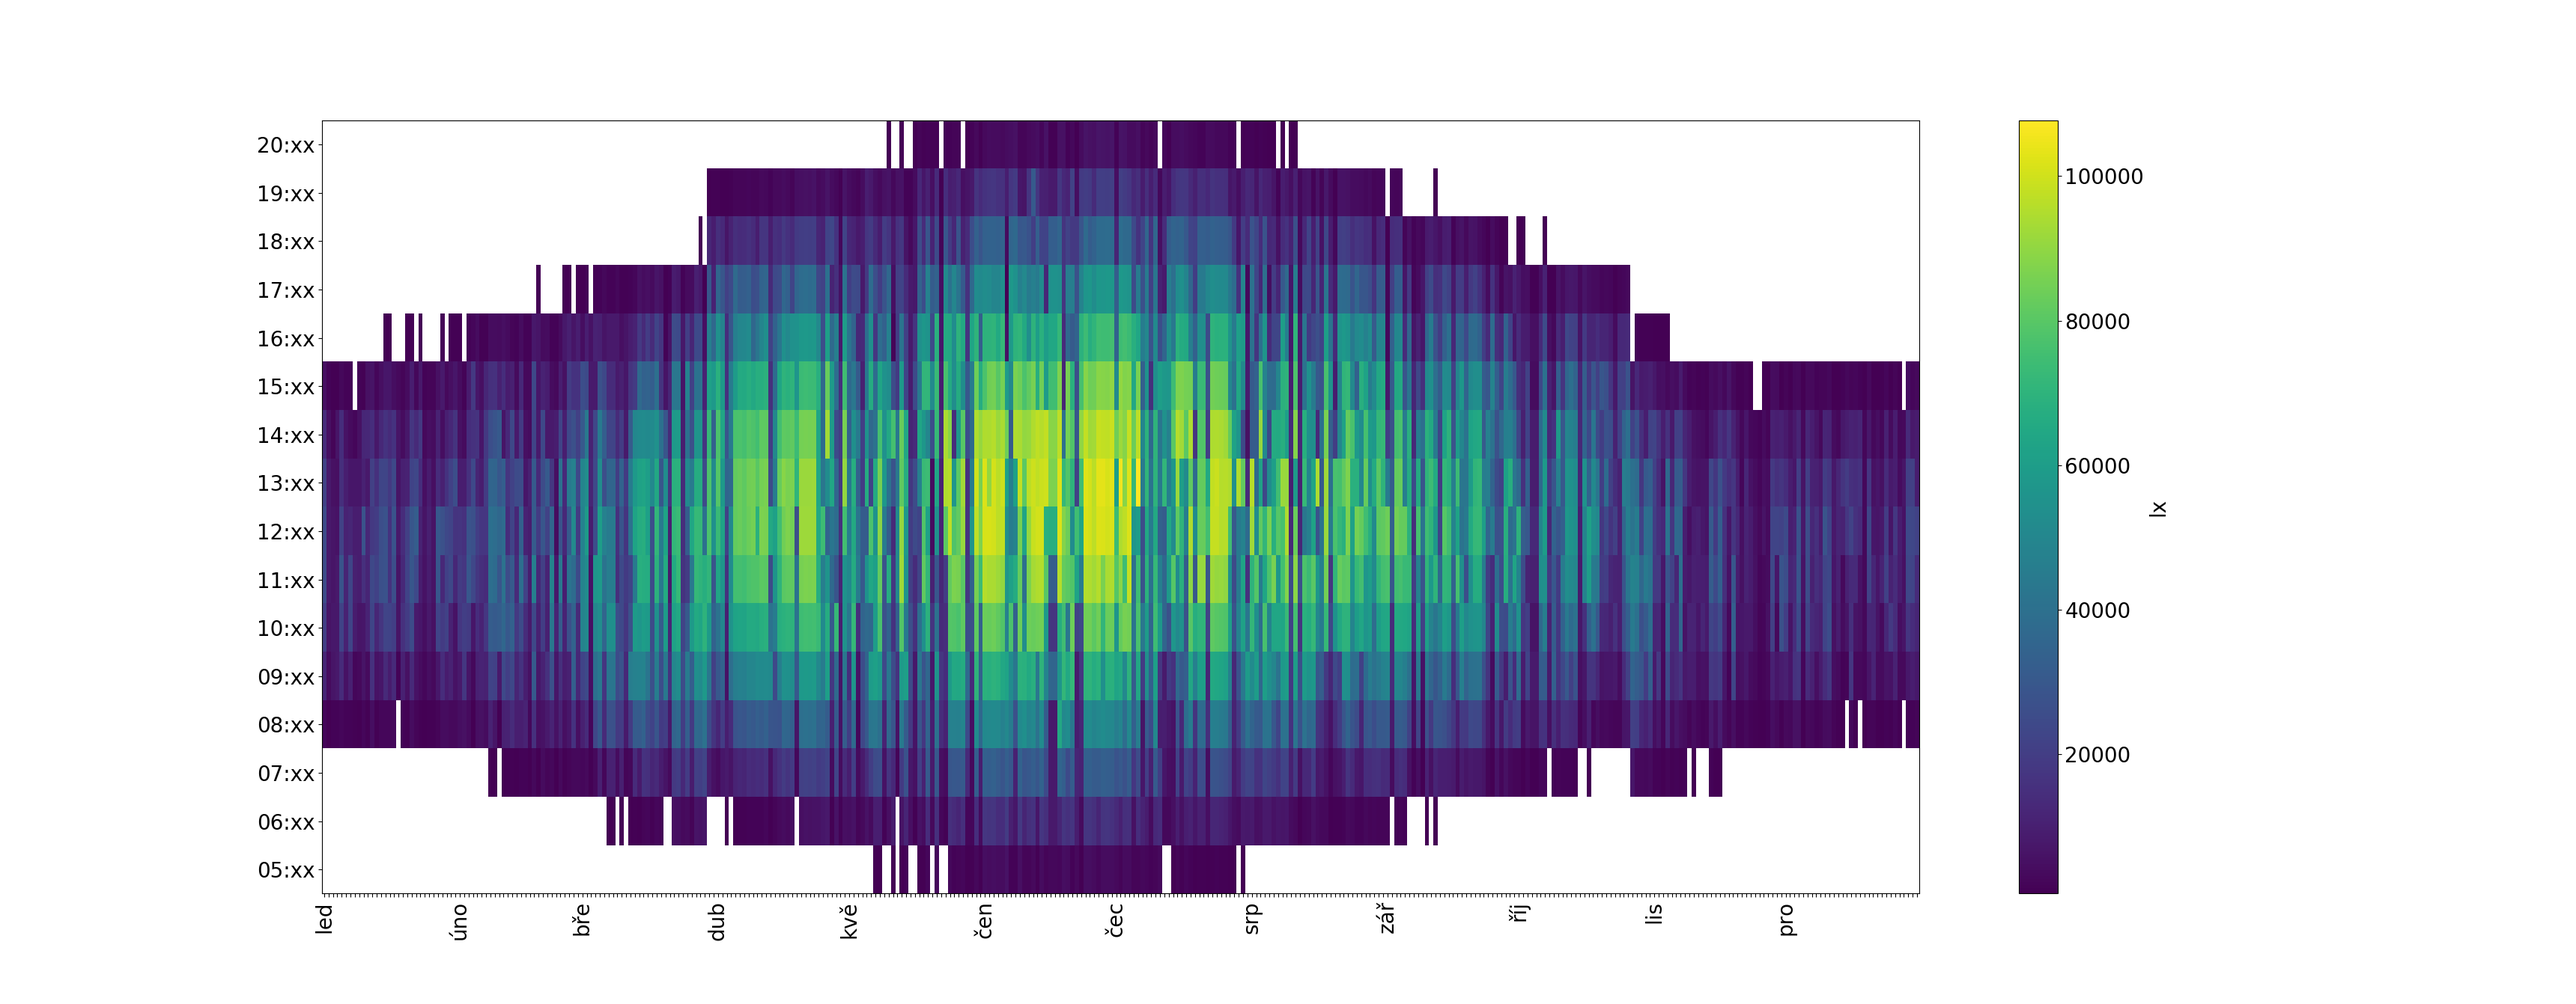
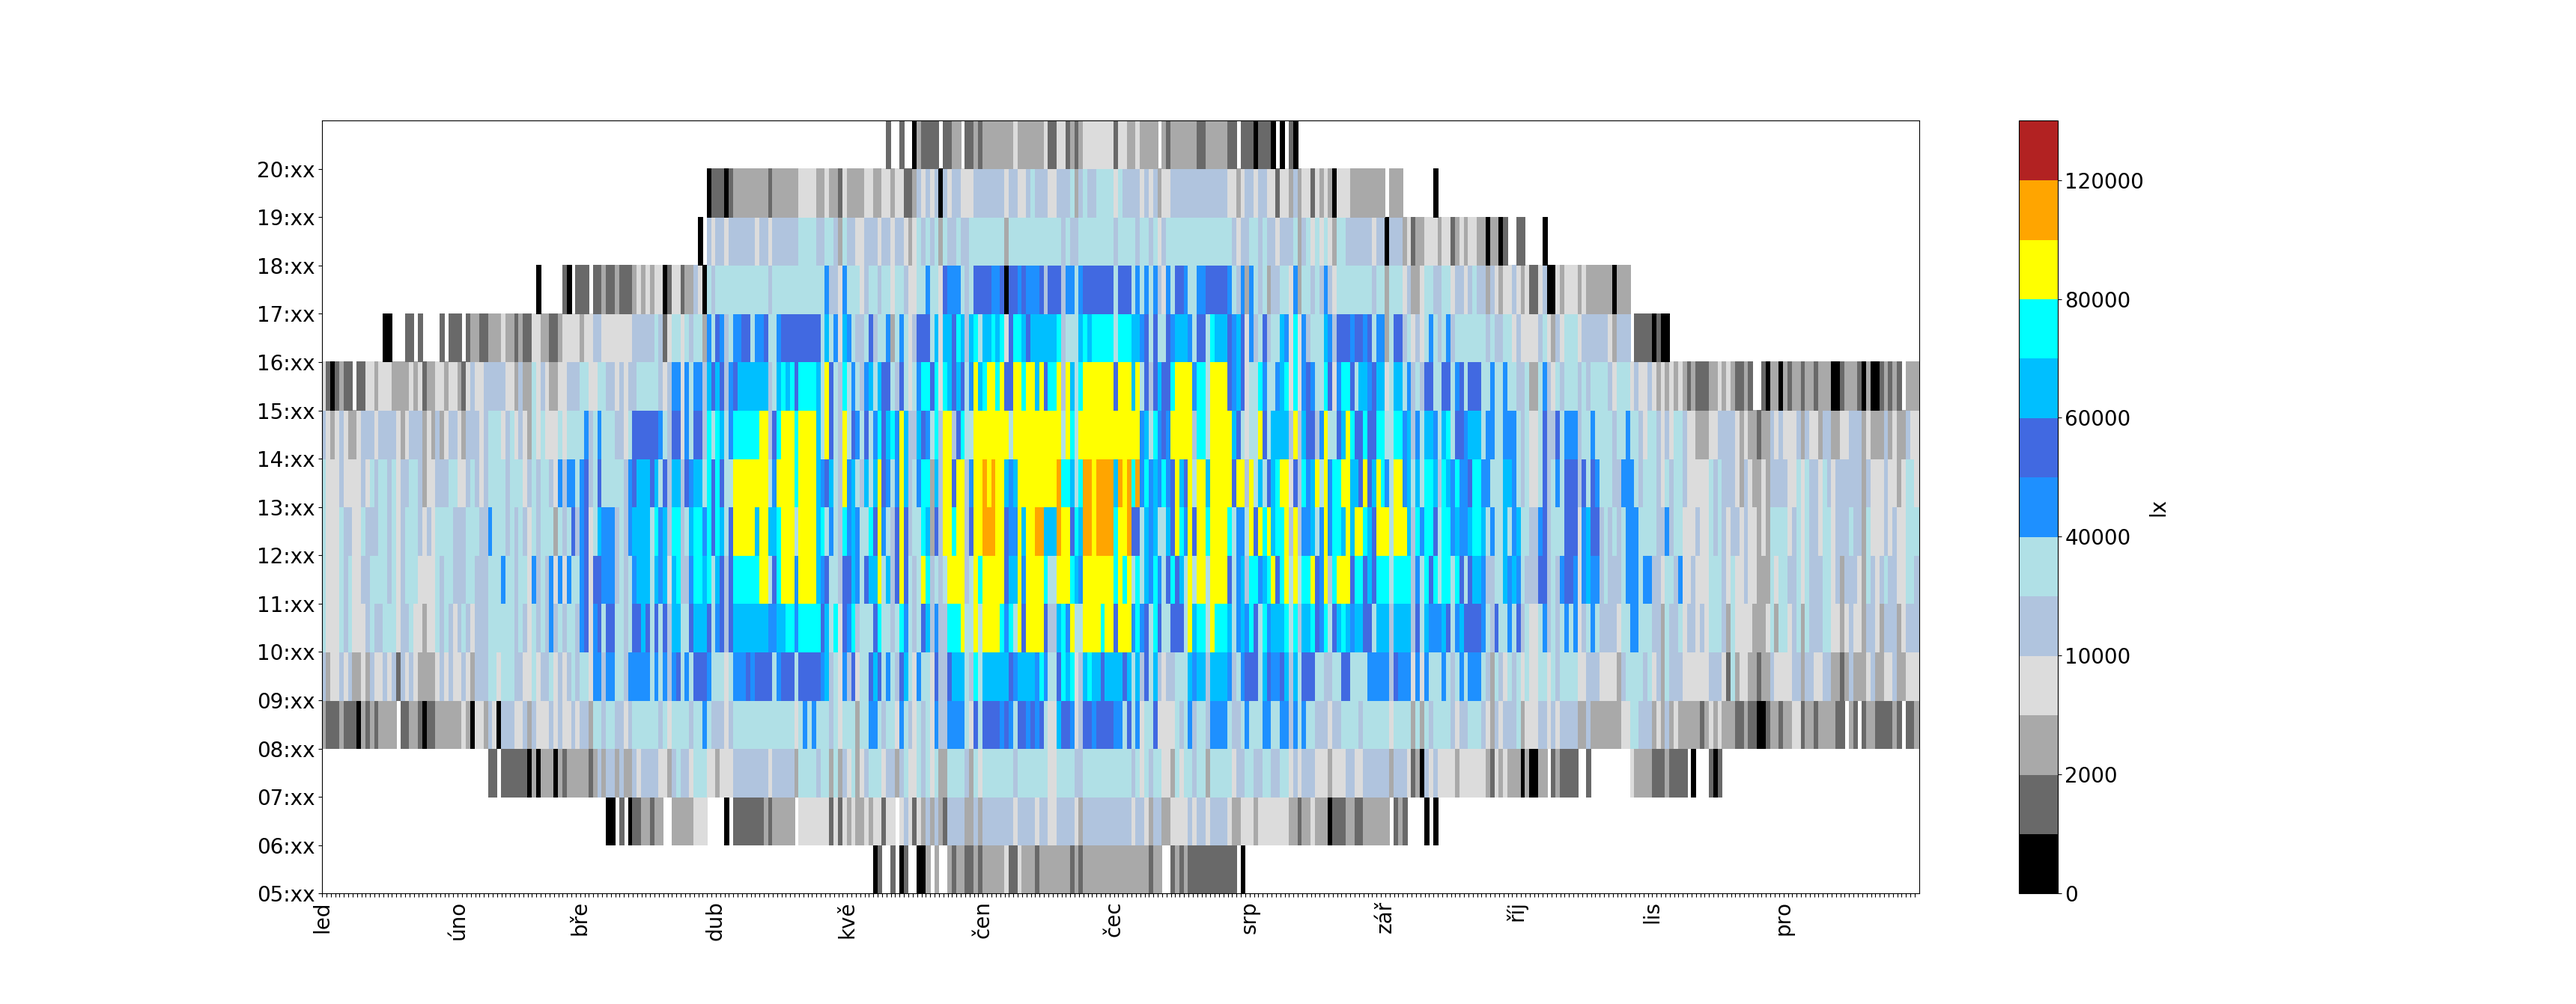
Cusotm colors for zapocitane_hodnoty

diff --git a/zapocitane_hodnoty.py b/zapocitane_hodnoty.py
@@ -16,9 +16,14 @@ df2 = df.reset_index().pivot(columns='day1',index='hour',values='horizon')
 
 print(df2)
 
-im = plt.imshow(df2, aspect='auto', origin='lower')
+fig, ax = plt.subplots()
 
-ax = plt.gca()
+from matplotlib import colors
+cmap = colors.ListedColormap(['black', 'dimgray', 'darkgrey', 'gainsboro', 'lightsteelblue', 'powderblue', 'dodgerblue', 'royalblue', 'deepskyblue', 'cyan', 'yellow', 'orange', 'firebrick'])
+bounds=[0, 1000, 2000, 5000, 10000, 20000, 40000, 50000, 60000, 70000, 80000, 100000, 120000, 150000]
+norm = colors.BoundaryNorm(bounds, cmap.N)
+im = ax.pcolor(df2, cmap=cmap, norm=norm)
+
 
 def datetimeToStr(d):
   if d.day == 1:
